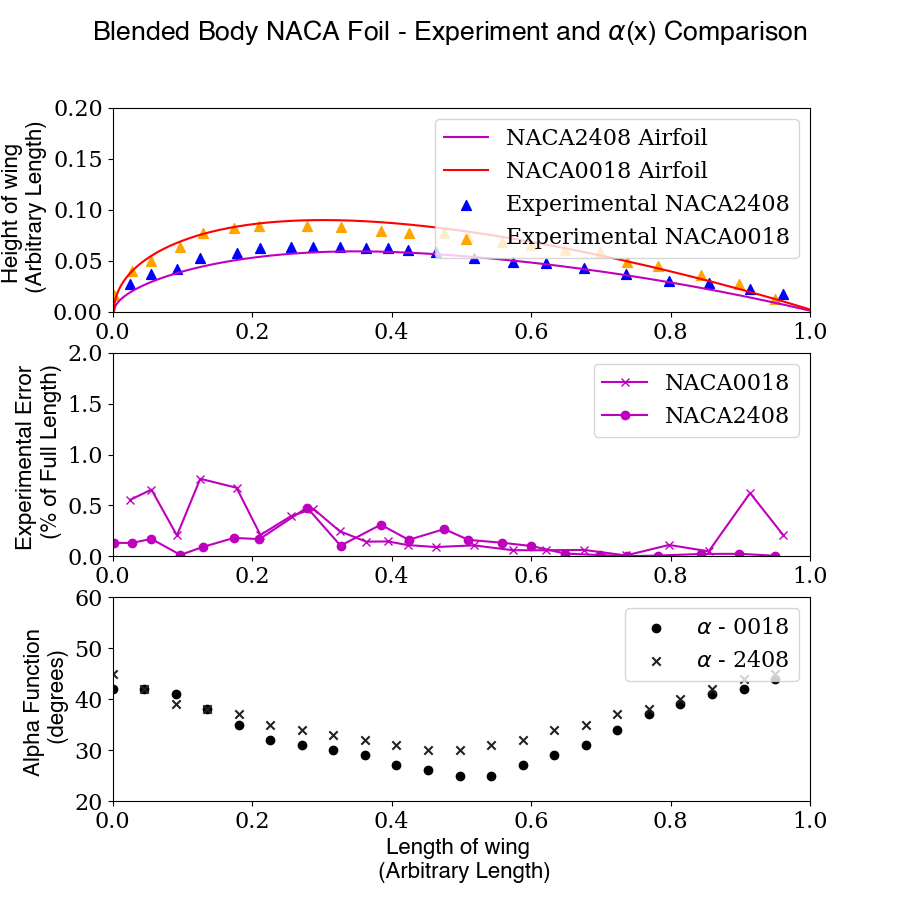
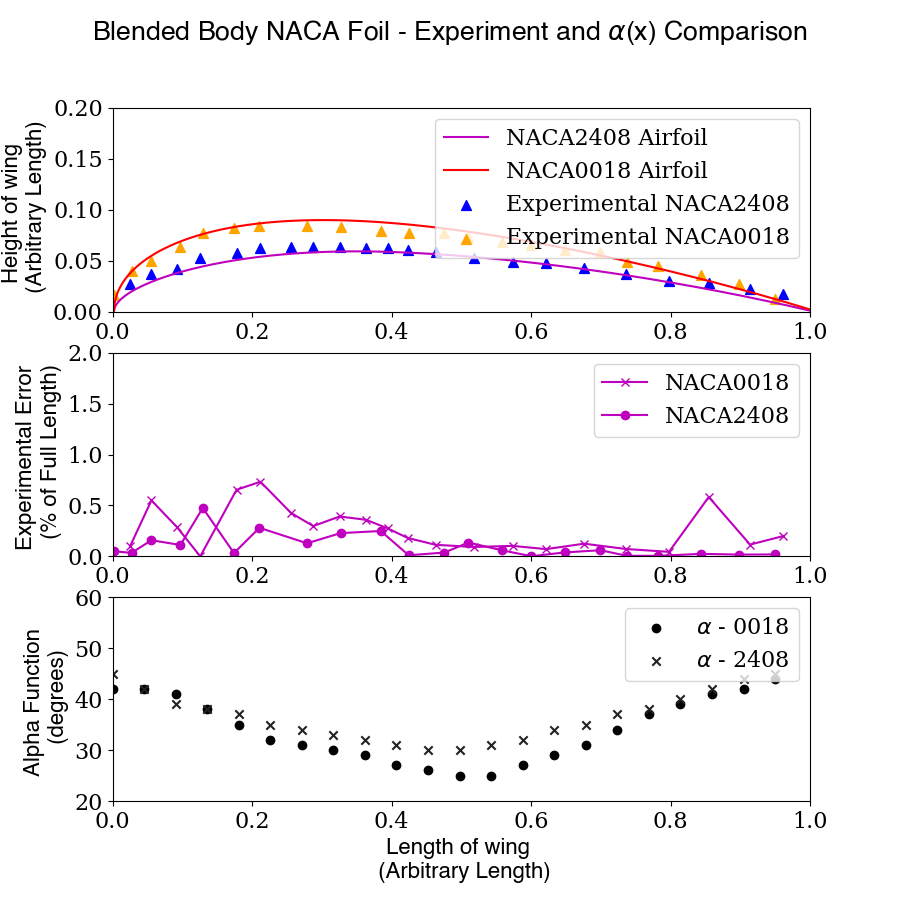
fig gen

Changed region(s): [[0.1244, 0.5289, 0.8711, 0.6222]]

diff --git a/main_airfoil.py b/main_airfoil.py
@@ -718,7 +718,7 @@ if __name__ == '__main__':
     print("Examining airfoils: {}".format(str(NACA_numbers)))
 
     # Iterative solver for alpha
-    iterative_alpha = True
+    iterative_alpha = False
     if iterative_alpha:
         # for each NACA airfoil profile under study
         for number in NACA_numbers:
@@ -755,7 +755,7 @@ if __name__ == '__main__':
         plot_b_L_maxK(b_list=data_array[:, 3], L_list=data_array[:, 2], max_K_list=data_array[:, 4])
         plot_b_L_dieoff(b_list=data_array[:, 3], L_list=data_array[:, 2], do_list=data_array[:, 5])
 
-    airfoil_data = False
+    airfoil_data = True
     if airfoil_data:
         # for each NACA airfoil profile under study
         for number in NACA_numbers:
